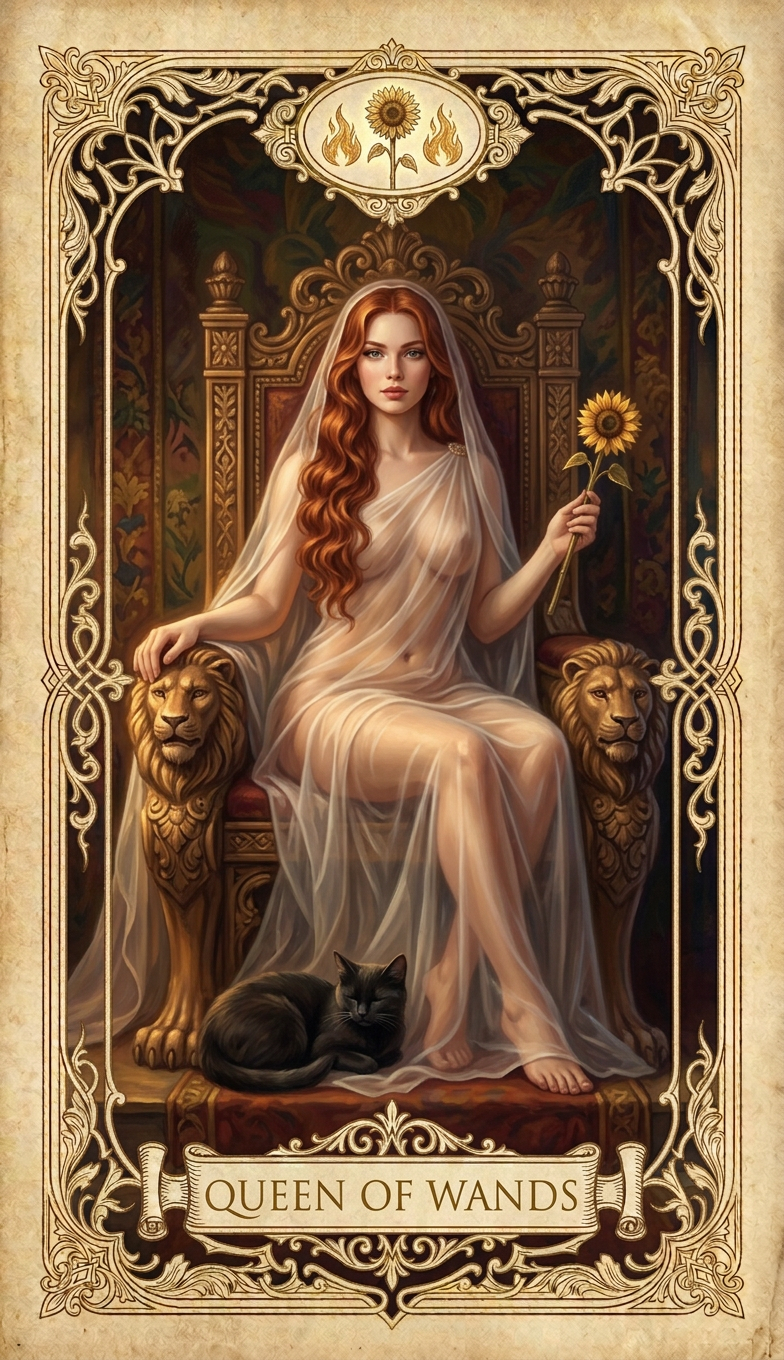
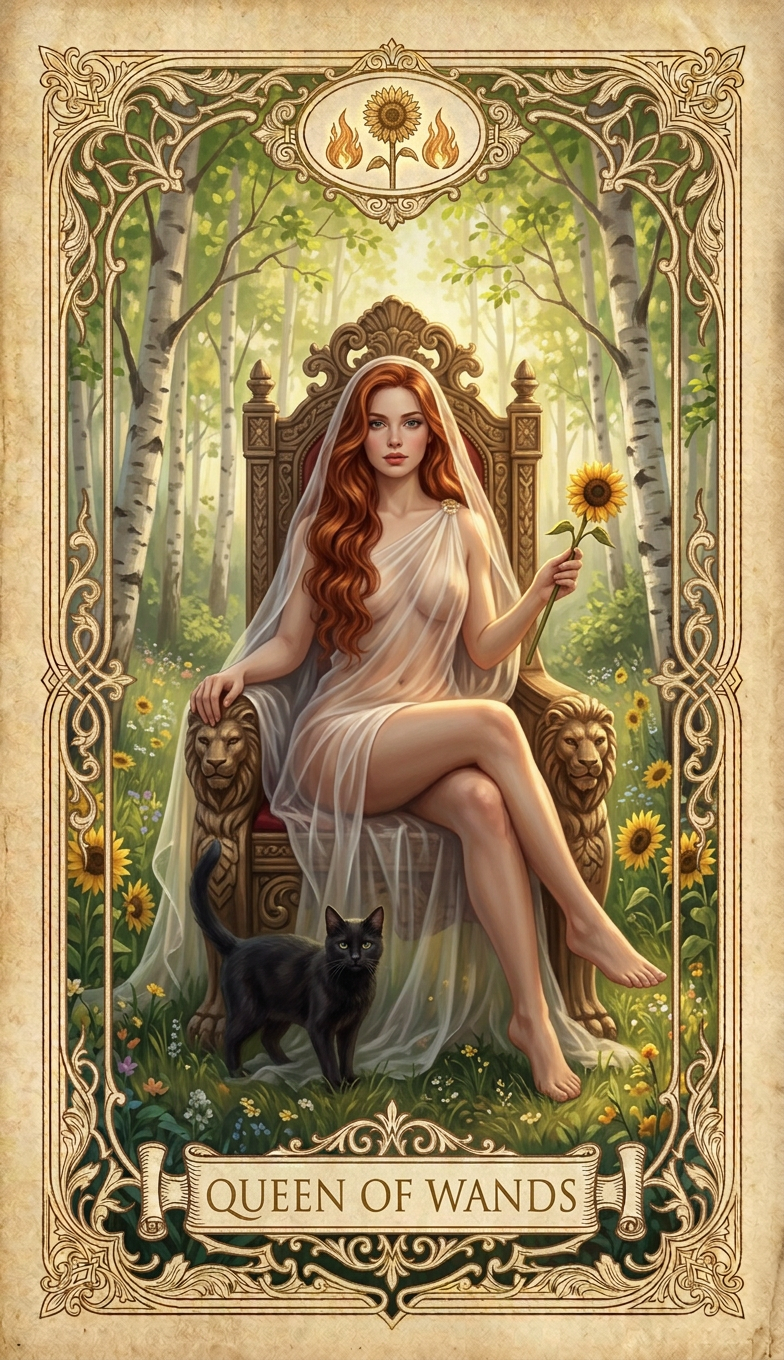
King & Queen of Wands: forest backdrops (two different styles)
- King of Wands: throne set in a majestic ancient oak forest with golden
  sunlight streaming through the canopy, amber light and drifting embers.
- Queen of Wands: throne at the edge of a bright spring birch grove with
  white trunks, wildflowers and sunflowers, dappled sunlight.
Characters, veils, and the single wand count stay unchanged. Frame-
verified vs The Star (King RMSE 0.021, Queen RMSE 0.019).

diff --git a/cards/index.html b/cards/index.html
@@ -670,7 +670,7 @@
             <div class="card-details">
                 <div class="card-title">KING OF WANDS</div>
                 <div class="card-meta"><strong>Độ tuổi:</strong> 25 years old &bull; <strong>Huy hiệu:</strong> a flaming wand rising from a lion head</div>
-                <div class="card-scene">a serene 25-year-old female sovereign with a lion-carved crown seated on a flame-carved throne, draped in a diaphanous transparent silk veil, holding one blossoming wand gently in her hand</div>
+                <div class="card-scene">a serene 25-year-old female sovereign with a lion-carved crown seated on a flame-carved throne, draped in a diaphanous transparent silk veil, holding one blossoming wand gently in her hand, her throne set in a clearing of a majestic ancient oak forest — towering dark oak trunks with warm golden sunlight streaming down through the dense canopy, shafts of amber light and drifting golden embers between the trees</div>
             </div>
         </div>
         <div class="card-item">
@@ -694,7 +694,7 @@
             <div class="card-details">
                 <div class="card-title">QUEEN OF WANDS</div>
                 <div class="card-meta"><strong>Độ tuổi:</strong> 24 years old &bull; <strong>Huy hiệu:</strong> a sunflower wand between two flames</div>
-                <div class="card-scene">a serene queen with dark loosened hair on a lion-carved throne, draped only in a diaphanous transparent silk veil that clings to her soft curves, one sunflower wand held gently in her hand, a black cat at her feet</div>
+                <div class="card-scene">a serene queen with dark loosened hair on a lion-carved throne, draped only in a diaphanous transparent silk veil that clings to her soft curves, one sunflower wand held gently in her hand, a black cat at her feet, her throne set at the edge of a bright spring birch grove — slender white birch trunks, soft green undergrowth and a carpet of wildflowers and sunflowers, dappled sunlight filtering through young leaves</div>
             </div>
         </div>
     </div>
